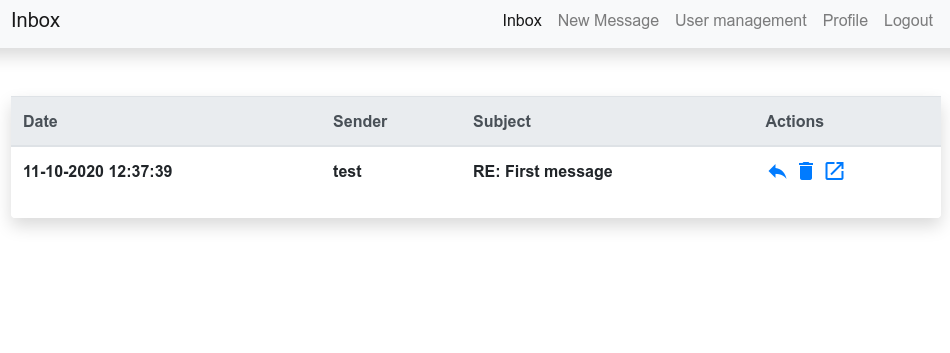
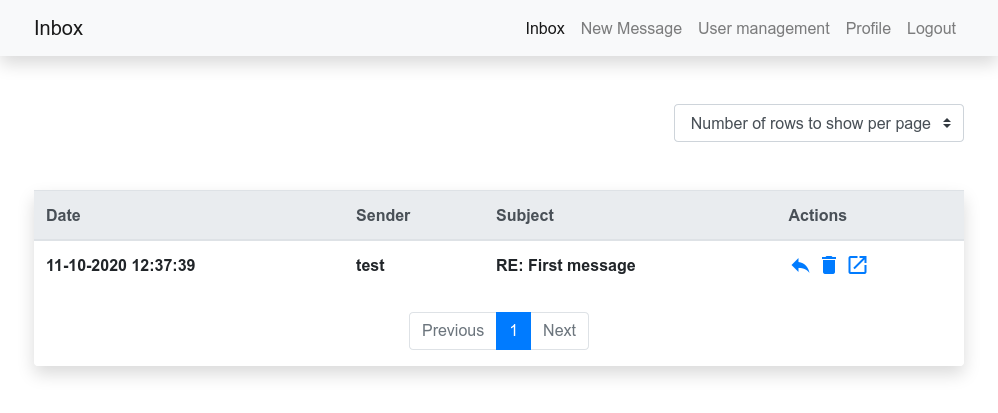
Updated README

diff --git a/README.md b/README.md
@@ -13,7 +13,7 @@ As part of the STI course we were asked to create a website that will simulate a
 In this site you have two different roles, Administrator and Collaborator.  
 If you are an Administrator, you will be able to manage the users of the site.
 
-You cannot access the site if you are not logged in. If you try to access other pages you will be redirected to the login page
+You cannot access the site if you are not logged in. If you try to access other pages you will be redirected to the login page.
 
 Here are the available functions once you sign in to the site :
 
@@ -83,7 +83,7 @@ After that you will see a login page you can use the following credentials :
 
 ### Login Page
 
-This is the first that you will be able to see after the installation.
+This is the first page that you will be able to see after the installation.
 
 Here is the result of the page :
 
@@ -103,30 +103,32 @@ For each email, the date it was sent, the sender and the subject are displayed. 
 - Delete it
 - Show its details
 
+Depending on the number of users (i.e. the number of rows), the table might be displayed on multiple pages. It is also possible to manually set the amount of rows per page.
+
 
 ### New message page
 
 This page has two functions the first, as the name suggests, allows the user to create a new message.
 
-Here is the result page :
+Here is the resulting page :
 
 ![New Message Page](./images/NewMessage.PNG)
 
-This pages will ask to fill all the fields for a new message. The new message is sent only if the user indicated exists in the database and that all the fileds are filled. If not the page will show an error and the message will not be sent.
+This page will ask to fill all the fields for a new message. The new message is sent only if the specified user exists in the database and that all the fields are filled. If not, the page will show an error and the message will not be sent.
 
-You have two buttons in the bottom of the pages that will allow you to submit the form(send the message) or cancel it and return to the inbox page.
+You have two buttons in the bottom of the page, that will allow you to submit the form(send the message) or cancel it and return to the inbox page.
 
-The second function allows a user to answer to an email. In this case the fields will be automatically filled.
+The second function of this page is to allow a user to answer to an email. In this case, the fields will be automatically filled.
 
 Here is an example :
 ![Response Page](./images/Response.PNG)
 
 In the body you will find the original messages for the response. The subject will contain the string `RE:` that indicates that this is a response.  
-Obviously, if the user want to change the content of the fields he can.
+Obviously, if the user wants to change the content of the fields he can.
 
 ### Message details page
 
-As the previous page this pages will have two functions.
+As for the previous page, this page will also have two functions.
 
 The first function allows the user to view the details of a message.
 
@@ -139,7 +141,7 @@ Here is the page :
 In this page you will have a button that will allow you to return to the inbox or you can use the navigation bar to go somewhere else.
 
 The second function of the page is that you can view the details of the message before deleting it.  
-With that you can verify if you are deleting the rigth message.
+With that you can verify that you are deleting the right message.
 
 Here is the page :
 ![Details Page](./images/Delete.PNG)
@@ -153,9 +155,11 @@ In this mode the page will have two buttons :
 The profile page is used to change the password of the current user, it also displays the username and the role :
 ![Profile Page](./images/Profile.png)
 
-A password policy has been set and it is the following : 
-
-Password should contain at least 8 characters, one upper case letter, one number, and one special character
+The following password policy is enforced:
+- At least 8 characters
+- At least one upper case letter
+- At least one number
+- At least one special character
 
 ### User management page
 This page can only be accessed by administrators:  
